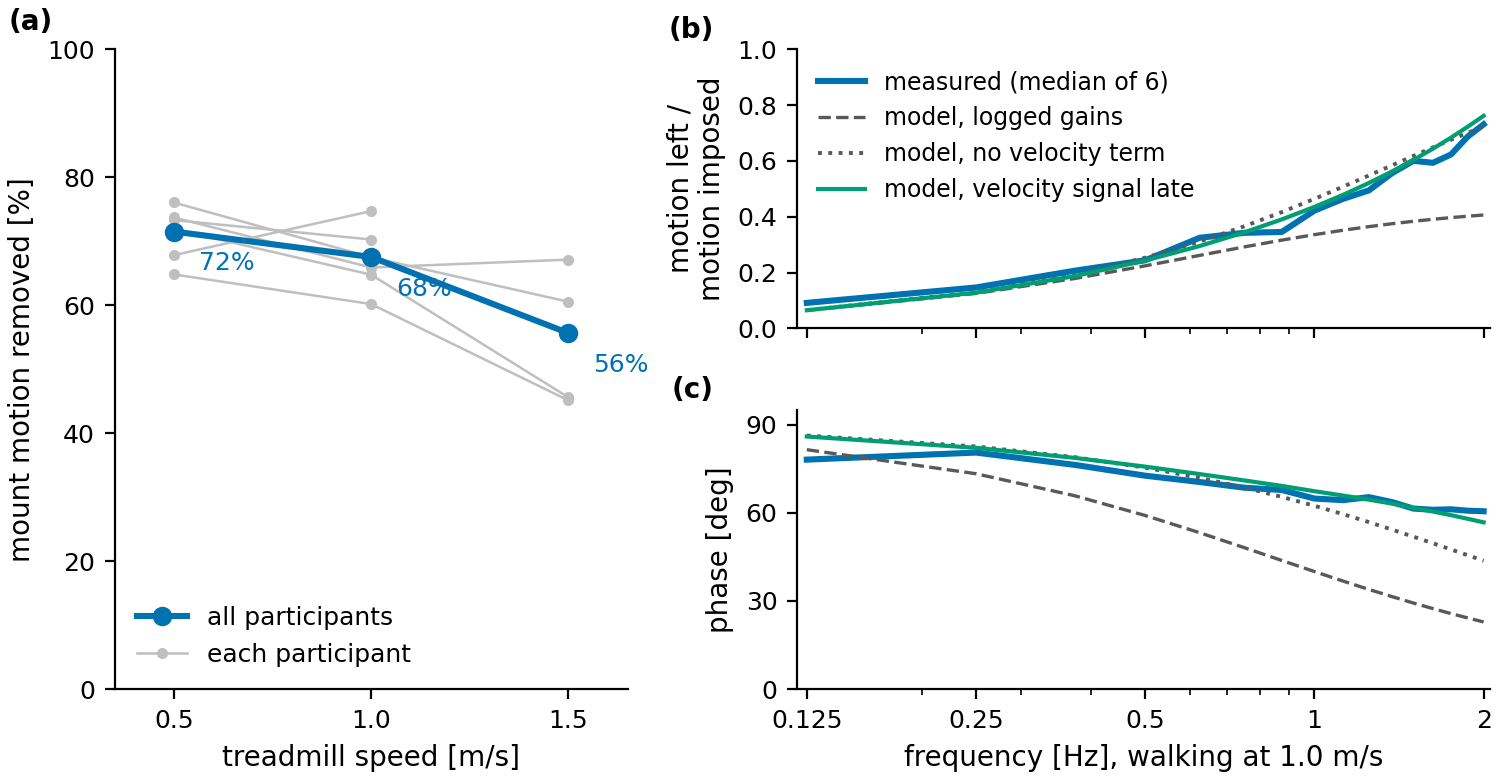
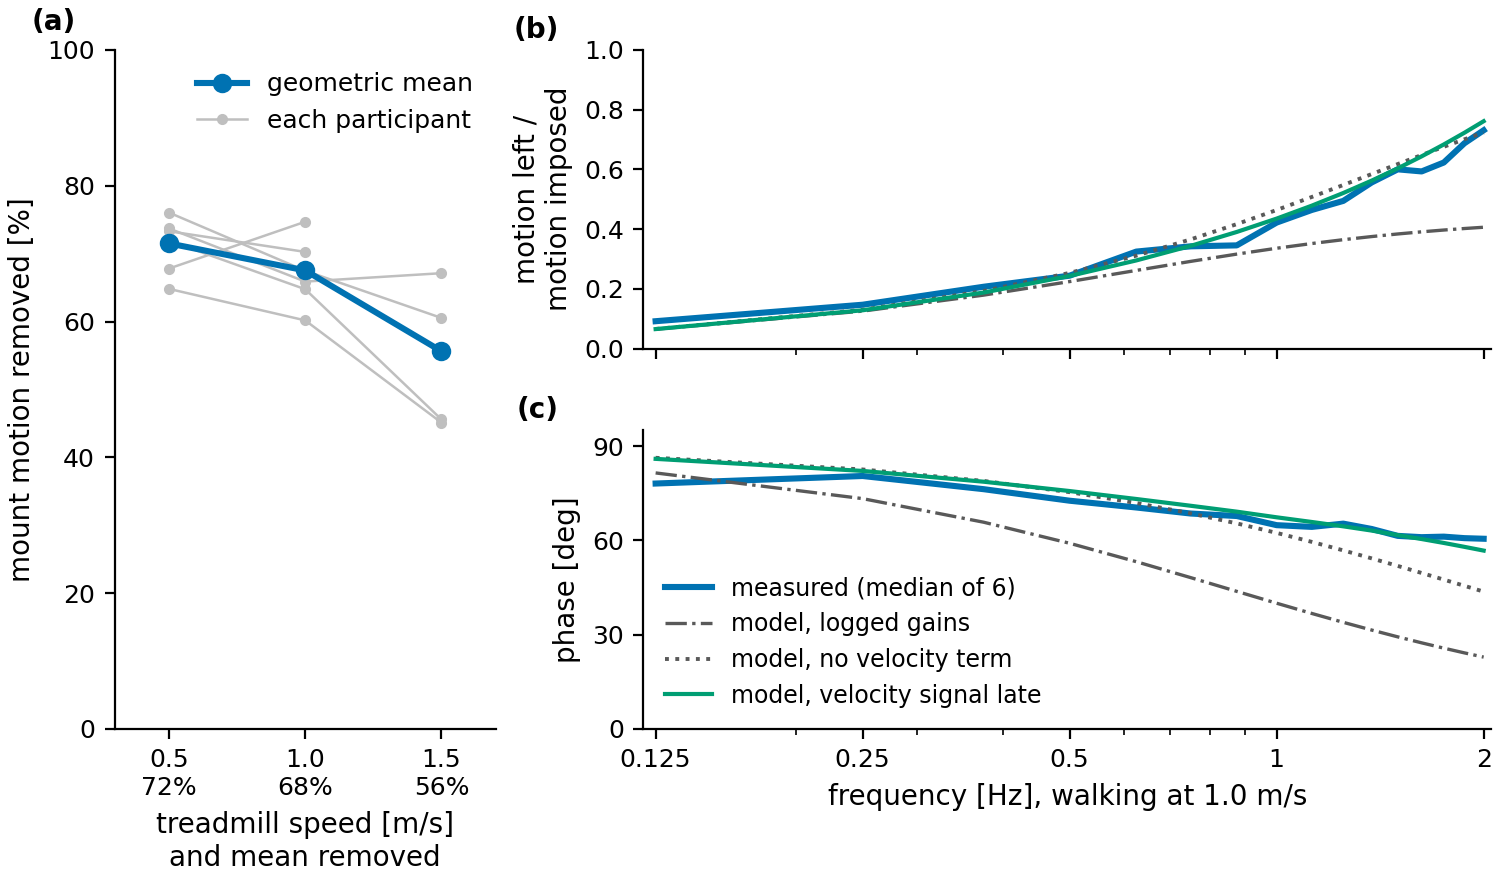
Rejection figure: per-speed means in the tick labels

diff --git a/tools/hardware_figures.py b/tools/hardware_figures.py
@@ -56,10 +56,9 @@ for p in pooled:
     ax.plot(s_.speed_m_s, 100 * (1 - s_.attenuation_ratio), color="0.75", linewidth=0.9, marker="o", markersize=3)
 gm = [100 * (1 - np.exp(np.log(f4[(f4.speed_m_s == v) & f4.participant.isin(pooled)].attenuation_ratio).mean())) for v in speeds]
 ax.plot(speeds, gm, color=CTRL["color"], linewidth=2.2, marker="o", markersize=6, label="geometric mean")
-for v, g in zip(speeds, gm):
-    ax.text(v, 34, f"{g:.0f}%", ha="center", va="center", fontsize=10, fontweight="bold", color=CTRL["color"])
 ax.set_ylim(0, 100); ax.set_xticks(speeds); ax.set_xlim(0.3, 1.7)
-ax.set_xlabel("treadmill speed [m/s]"); ax.set_ylabel("mount motion removed [%]")
+ax.set_xticklabels([f"{v:.1f}\n{g:.0f}%" for v, g in zip(speeds, gm)])
+ax.set_xlabel("treadmill speed [m/s]\nand mean removed"); ax.set_ylabel("mount motion removed [%]")
 ax.plot([], [], color="0.75", marker="o", markersize=3, linewidth=0.9, label="each participant")
 ax.legend(loc="upper right")
 g = f5[f5.participant.isin(pooled) & (f5.freq_hz <= 2.0)]
